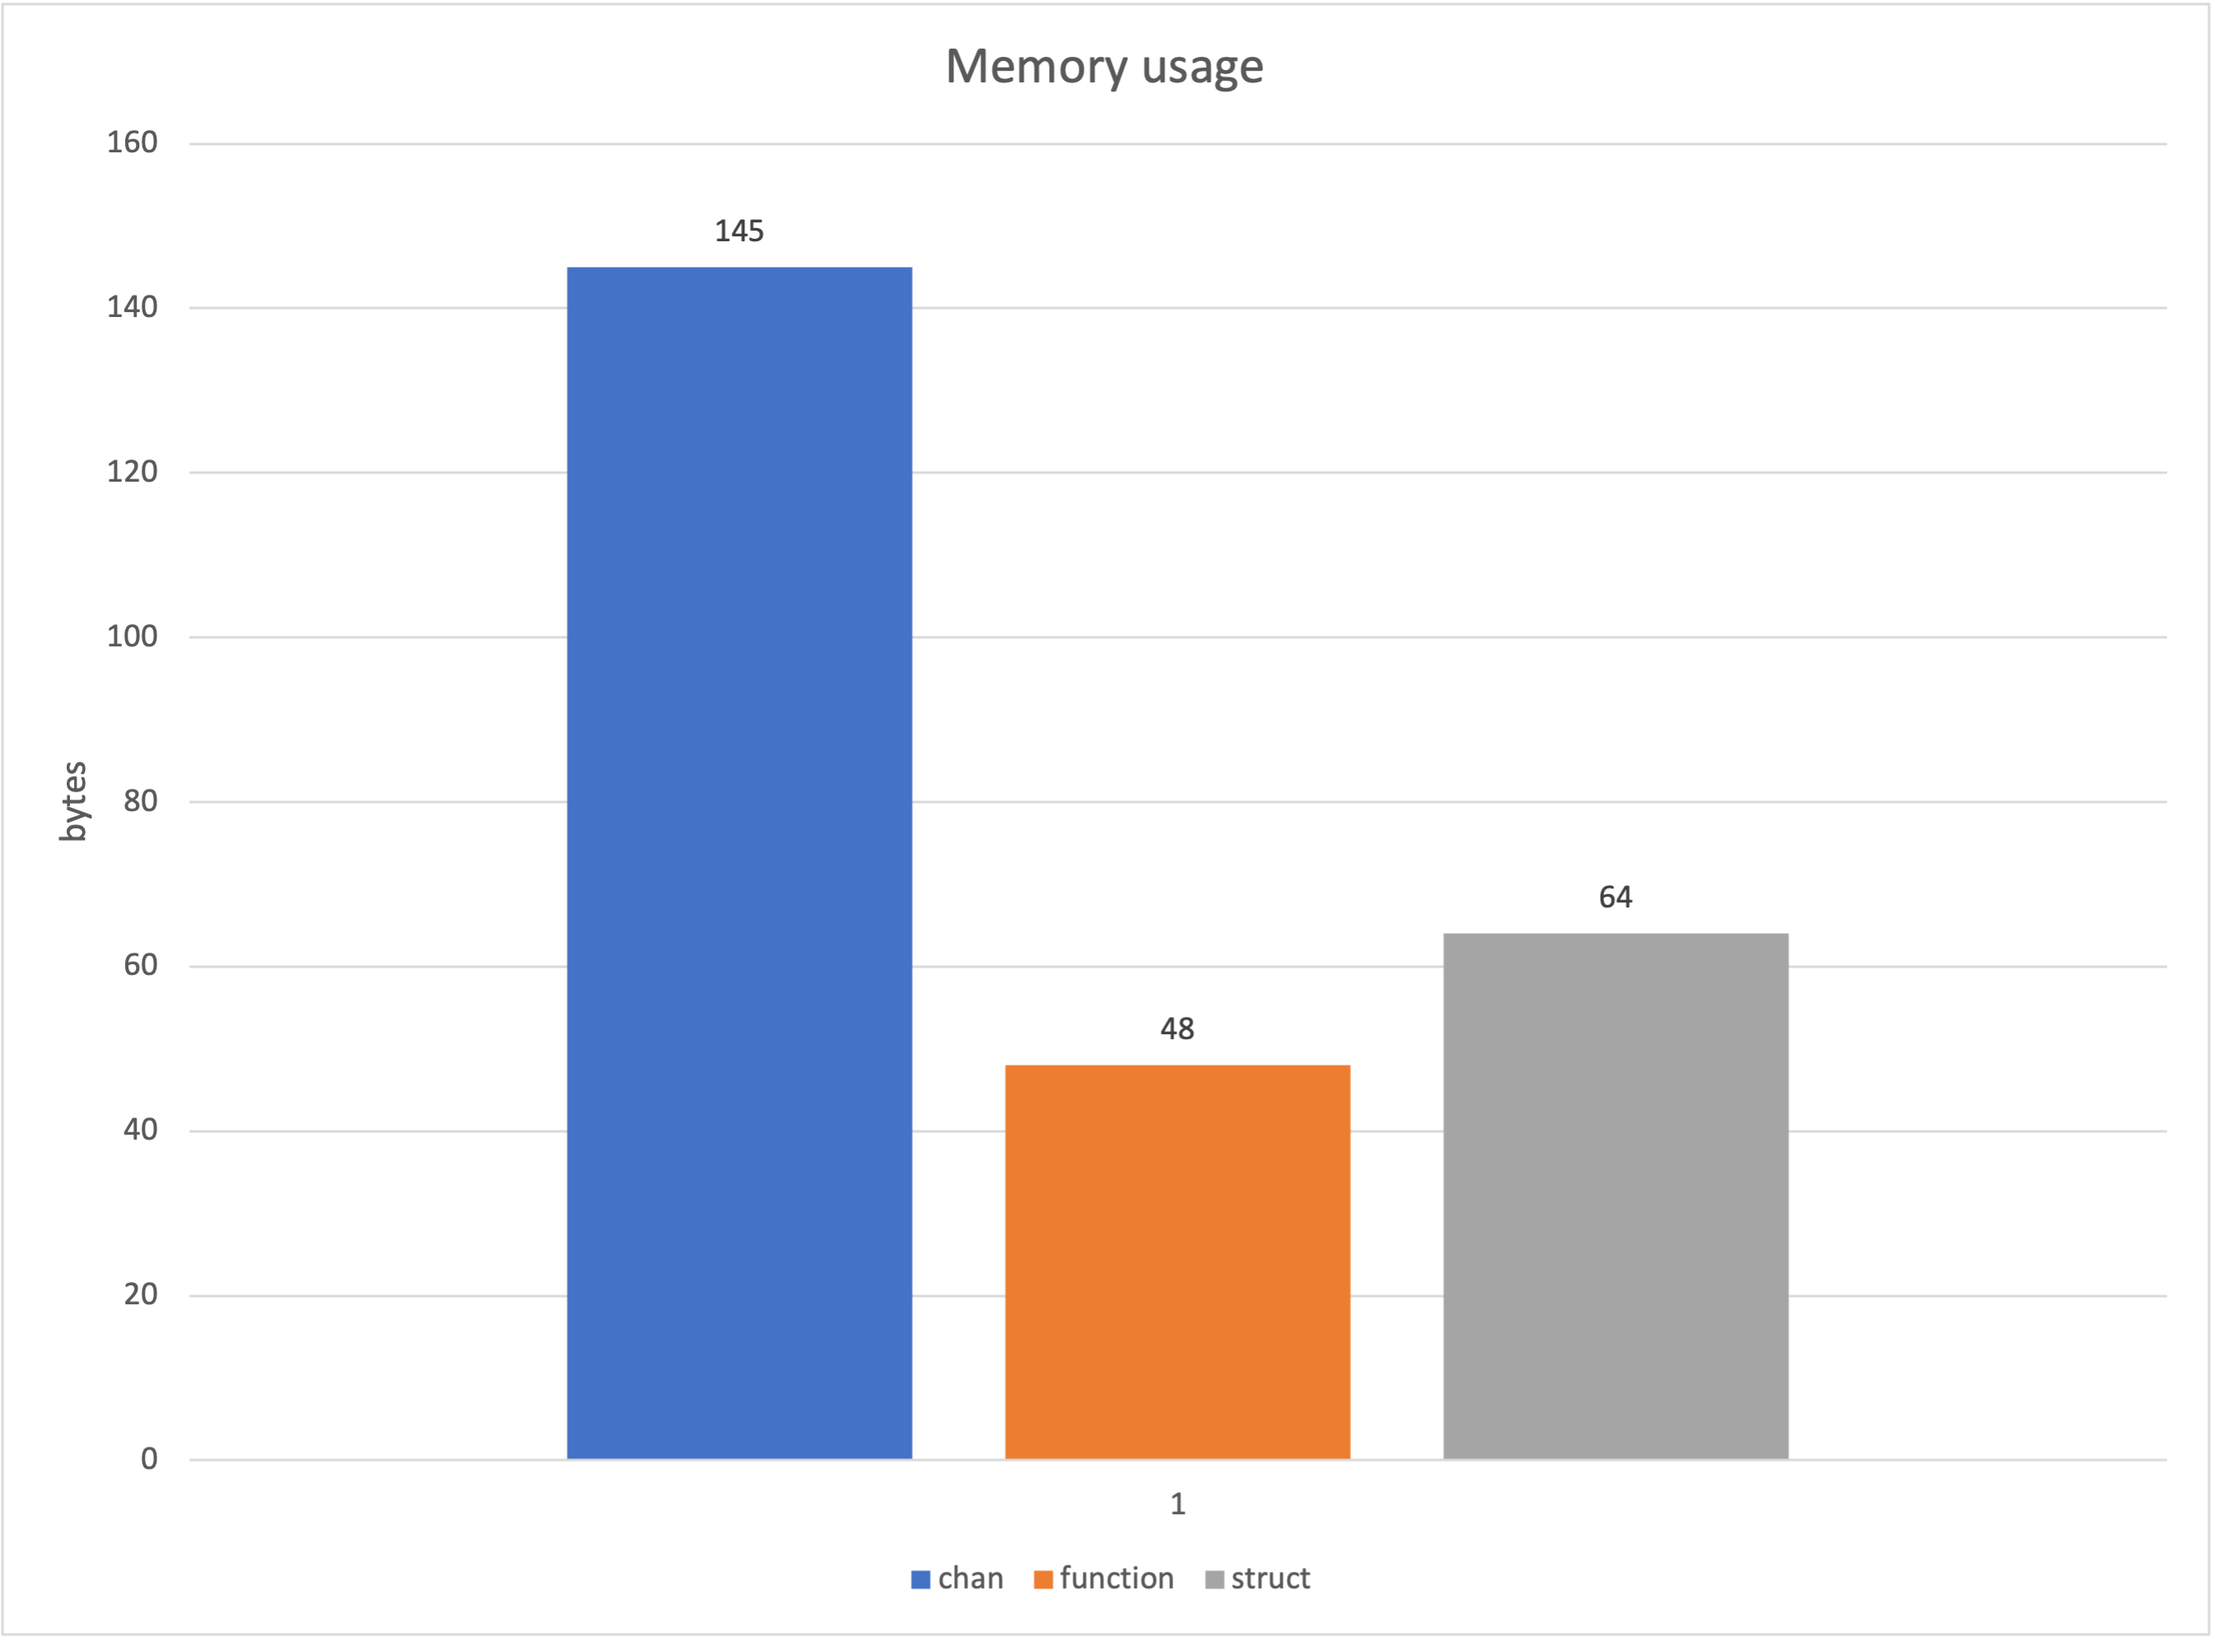
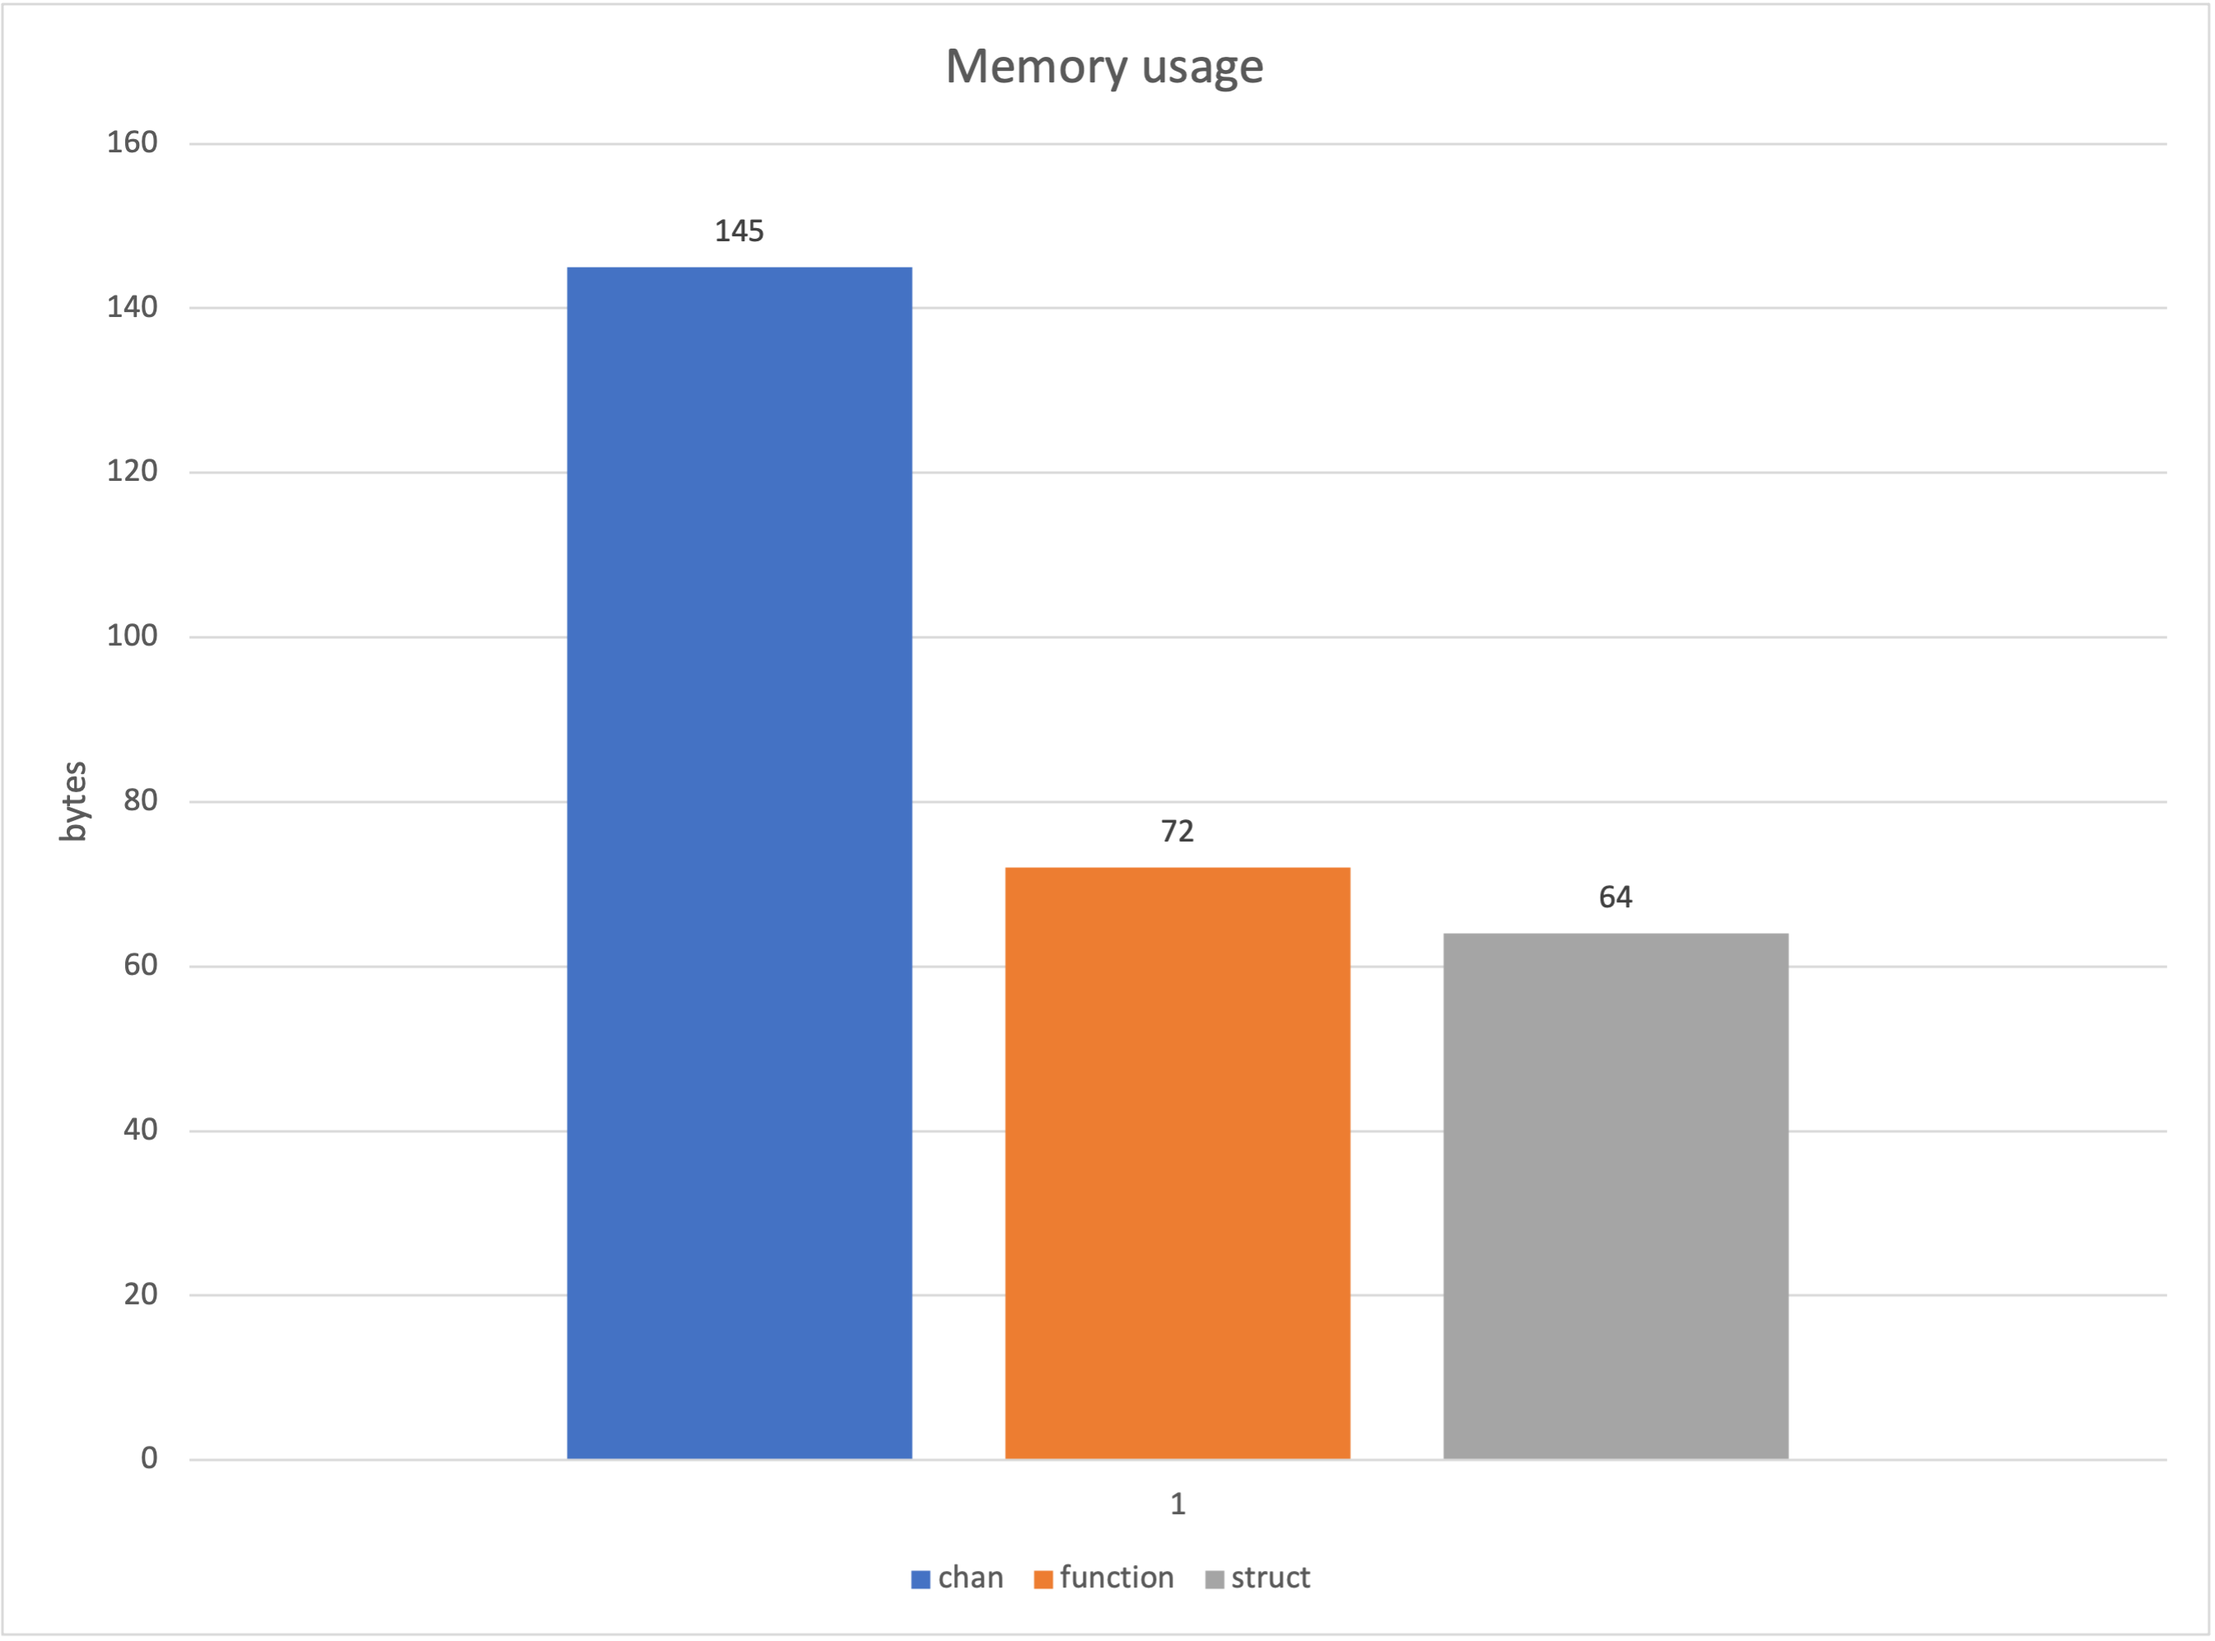
post - generators in go

Changed region(s): [[0.4372, 0.5289, 0.6245, 0.6533]]

diff --git a/posts/go-generators/go_generators.md b/posts/go-generators/go_generators.md
@@ -2,8 +2,7 @@
 
 > **Disclaimer**
 > 
-> It is not an example for production code.
-> 
+> This is not an example for production code.<br>
 > It is bad practice to move patterns from known programming language to new one. But sometimes you can adapt them.
 
 ---
@@ -11,6 +10,7 @@
 Many programming languages have a special type of collection called *generator*. It’s lazy structure, that works with one item in one time. So it is more efficiency by memory but you can iterate by objects only once.
 
 *Python example*
+
 ```python
 def gen(start: int, stop: int, step: int) -> Generator[int, None, None]:
     x = start
@@ -26,6 +26,7 @@ print(list(g))
 # [5, 8, 11, 14, 17]
 
 # second call returns empty list
+# because there is no history of returned data
 print(list(g))
 # []
 ```
@@ -34,7 +35,7 @@ Go language doesn't have generators in the standard library. Let’s write three
 
 ###  Channel generator
 
-Go channel is a nice mechanism for concurrency communication. One goroutine writes (generate) data to channel and another reads this value. Every time we work only with one item.
+Go channel is a nice mechanism for concurrency communication. One goroutine sends (generate) data to a channel and another receives the value. Every time we work only with one item.
 
 ```go
 import "fmt"
@@ -64,7 +65,7 @@ for j := range g {
 }
 ```
 
-Many consumers can safety read generator’s data from channel, but it should be slowly due to internal locks, we will check this later.
+Many consumers can safety read generator’s data from a channel, but it should be slowly due to internal locks, we will check this later.
 
 ### Function generator
 
@@ -117,17 +118,72 @@ if err != ErrStopIteration {
 }
 ```
 
-Mutex is required here, because concurrent function calls can update `i` in parallel.
+Mutex is required here, because concurrent function calls can update `i` in several goroutines.
+
+### Struct generator
+
+The latest generator example is structure. It has a current value and stores additional parameters. Also our structure must have mutex like an example before, because concurrent reading should be safety.
+
+```go
+// StructGenerator is a struct generator.
+type StructGenerator struct {
+	sync.Mutex
+	stop  int
+	step  int
+	value int
+}
+
+// NewStructGenerator returns a new struct generator.
+func NewStructGenerator(start, stop, step int) (*StructGenerator, error) {
+	if step < 1 {
+		return nil, ErrOffsetIteration
+	}
+	return &StructGenerator{stop: stop, step: step, value: start}, nil
+}
+
+// Next returns a new generation value and flag that it is not the end.
+func (g *StructGenerator) Next() (int, bool) {
+	defer func() {
+		g.Lock()
+		g.value += g.step
+		g.Unlock()
+	}()
+	return g.value, g.value < g.stop
+}
+
+// how to use it (without error handling)
+g, _ := NewStructGenerator(5, 20, 3)
+for v, ok := g.Next(); ok; v, ok = g.Next() {
+	fmt.Println(v)
+}
+```
+
+It’s very easy way, it’s interesting to compare all three methods by speed and memory usage.
+
+## Benchmarks 
+
+I wrote simple [example](https://github.com/z0rr0/blog/blob/main/posts/go-generators/example/example_test.go) using Go benchmark mechanism `testing.B` and  got results:
 
 ```
 goos: darwin
 goarch: amd64
 pkg: github.com/z0rr0/blog/posts/go-generators/example
 cpu: Intel(R) Core(TM) i5-1038NG7 CPU @ 2.00GHz
-BenchmarkChanGenerator-8               5596 204634 ns/op  145 B/op  2 allocs/op
-BenchmarkChanChunk-8                  10000 107430 ns/op  161 B/op  2 allocs/op
-BenchmarkFuncGenerator-8              66406  17380 ns/op   72 B/op  4 allocs/op
-BenchmarkChunkGenerator-8            114096  10245 ns/op   88 B/op  4 allocs/op
-BenchmarkStructGenerator_Next-8       65679  17409 ns/op   64 B/op  1 allocs/op
-BenchmarkStructGenerator_NextChunk-8 126115   9233 ns/op   64 B/op  1 allocs/op
+BenchmarkChanGenerator-8         5772 205862 ns/op 145 B/op 2 allocs/op
+BenchmarkFuncGenerator-8        66204  17777 ns/op  72 B/op 4 allocs/op
+BenchmarkStructGenerator_Next-8 65004  18028 ns/op  64 B/op 1 allocs/op
 ```
+
+The histograms show results more clearly
+
+![time_usage.png](https://cdn.hashnode.com/res/hashnode/image/upload/v1630776197311/GkDOTLWS7.png)
+
+And comparing by memory usage 
+
+![memory_usage.png](https://cdn.hashnode.com/res/hashnode/image/upload/v1630776228708/qTeOSuC3P.png)
+
+## Conclusion
+
+There are different ways to implement generators in Go. Using channels is not the best idea. Of course we need to control  concurrent access, but standard mutex can do it better.
+
+I also wrote examples for chunk generators then we need to split a slice into pieces. For example, we want to convert `[1, 2, 3,… 10]` to 5 chunks by 2 items `[1, 2], [3, 4], … [9, 10]`. The same ways were used for it. You can find it in repo [go-generators/example](https://github.com/z0rr0/blog/tree/main/posts/go-generators/example)
